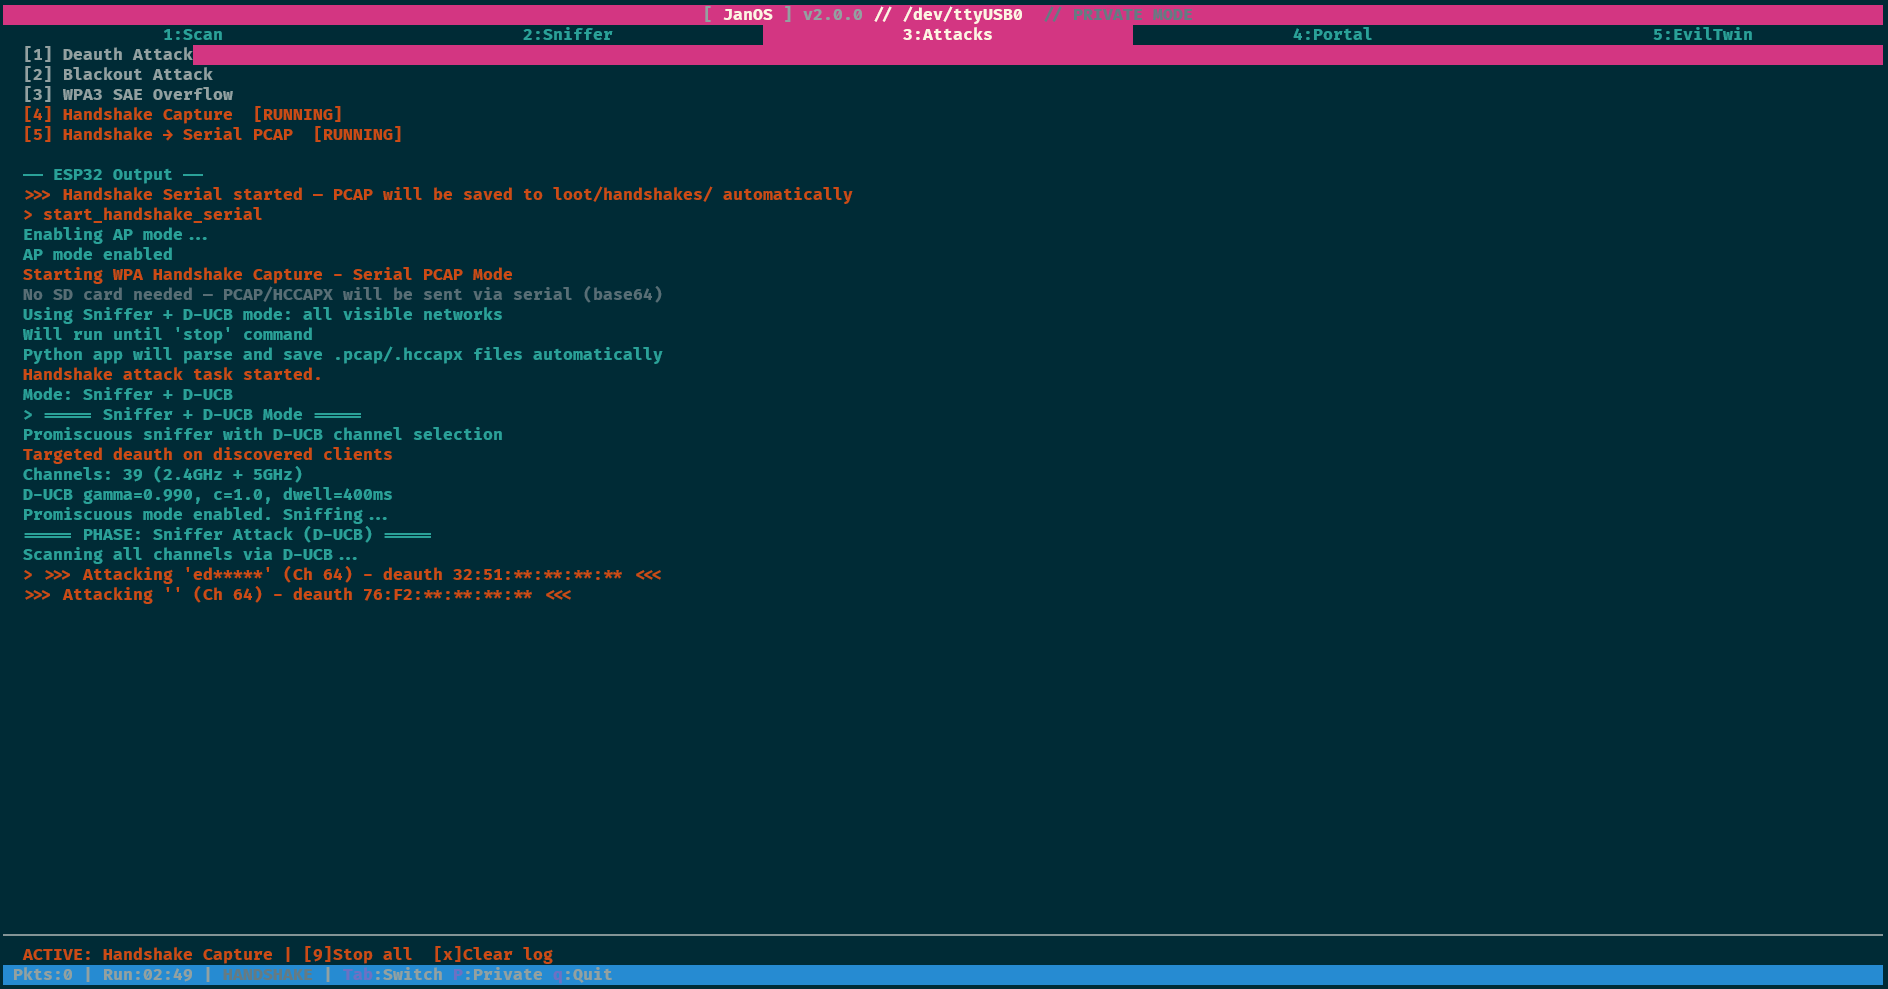
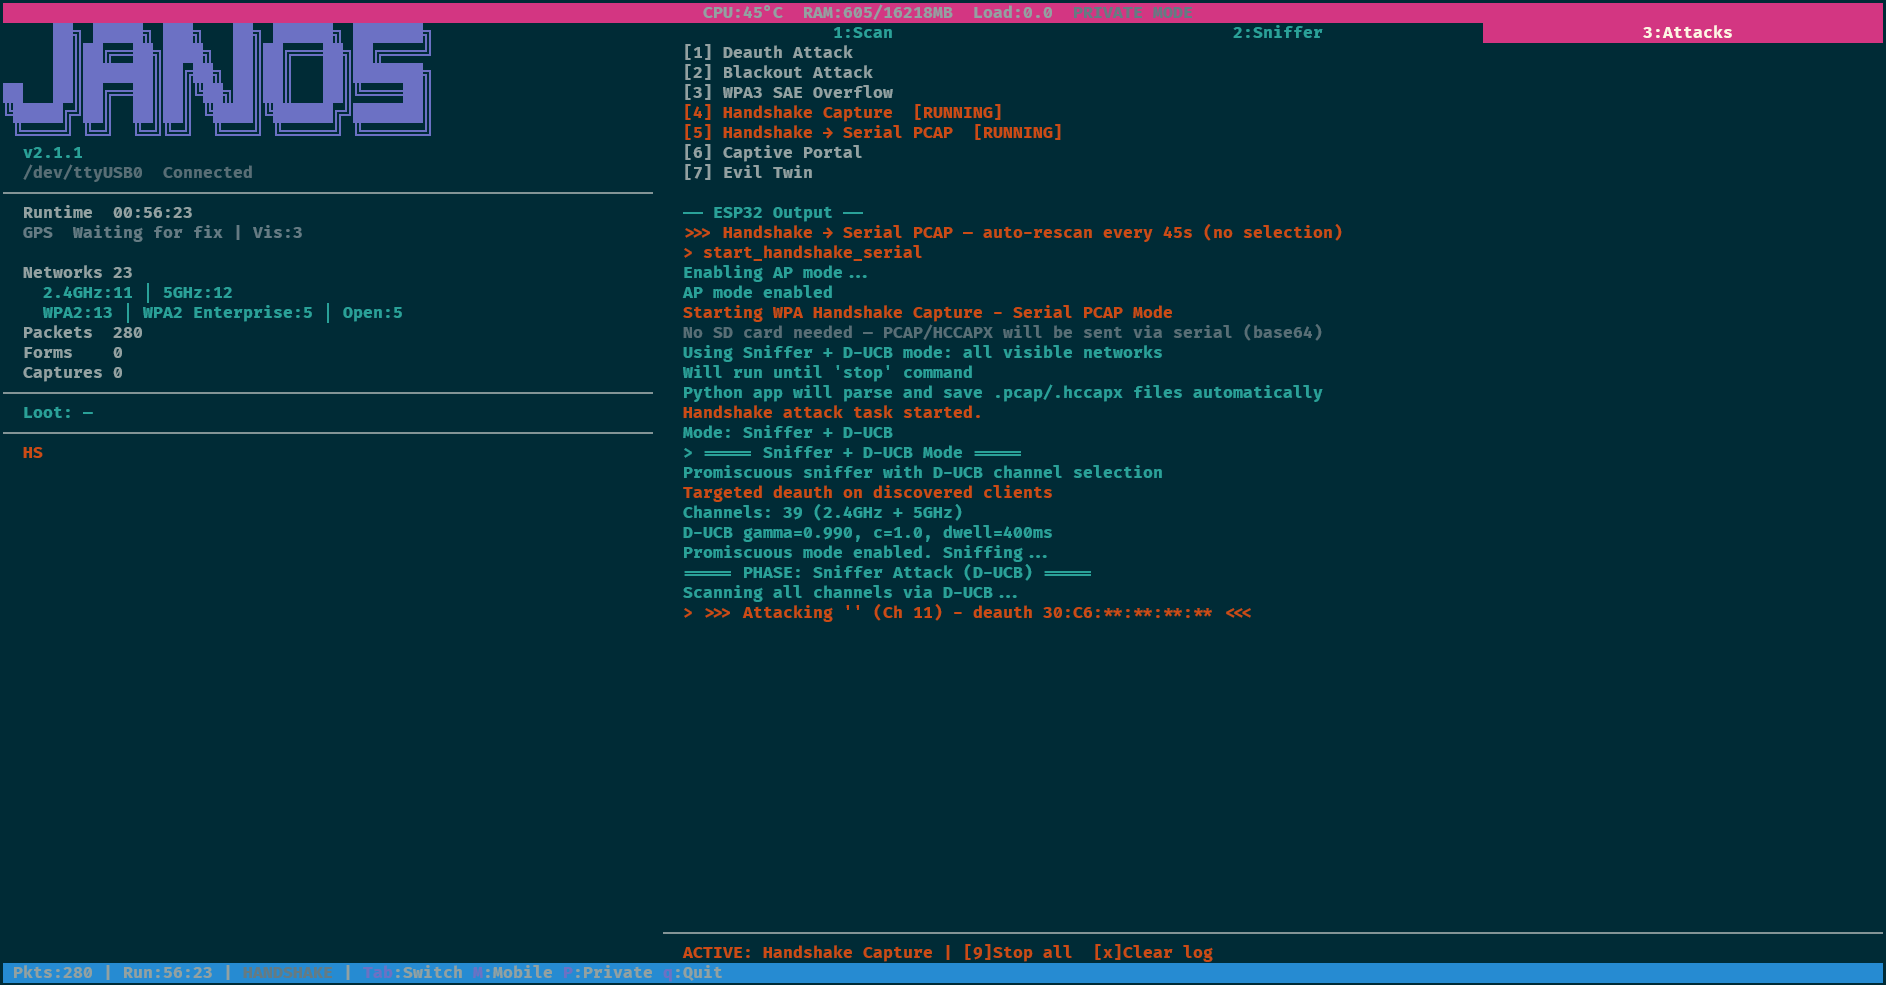
docs: update screenshots — add home/GPS, sniffer, portal picker, refresh scan and handshake

Changed region(s): [[0.0, 0.0, 1.0, 0.6396], [0.0, 0.9442, 1.0, 1.0]]

diff --git a/README.md b/README.md
@@ -9,17 +9,25 @@ Full-screen terminal interface with tabbed navigation, real-time data, and keybo
 
 ### Screenshots
 
-**Scan tab** — network discovery with RSSI color coding and Private Mode:
+**Home** — sidebar with GPS status, loot counters, network breakdown:
+
+![Home idle with GPS](screenshots/home_idle_gps.png)
+
+**Scan** — network discovery with RSSI color coding and Private Mode:
 
 ![Scan with Private Mode](screenshots/scan_private_mode.png)
 
-**Handshake Serial Capture** — confirmation dialog before starting SD-less capture:
+**Sniffer** — live packet capture with AP/client tree and Private Mode:
 
-![Handshake Confirm](screenshots/handshake_confirm.png)
+![Sniffer with Private Mode](screenshots/sniffer_private_mode.png)
 
-**Handshake Serial PCAP** — live D-UCB sniffer with targeted deauth, PCAP streamed via serial:
+**Handshake Serial PCAP** — D-UCB sniffer with targeted deauth, PCAP streamed via serial:
 
 ![Handshake Serial Running](screenshots/handshake_serial_running.png)
+
+**Custom Captive Portal** — file picker for loading custom HTML portal pages:
+
+![Portal File Picker](screenshots/portal_file_picker.png)
 
 ### Install & Run
 ```bash
